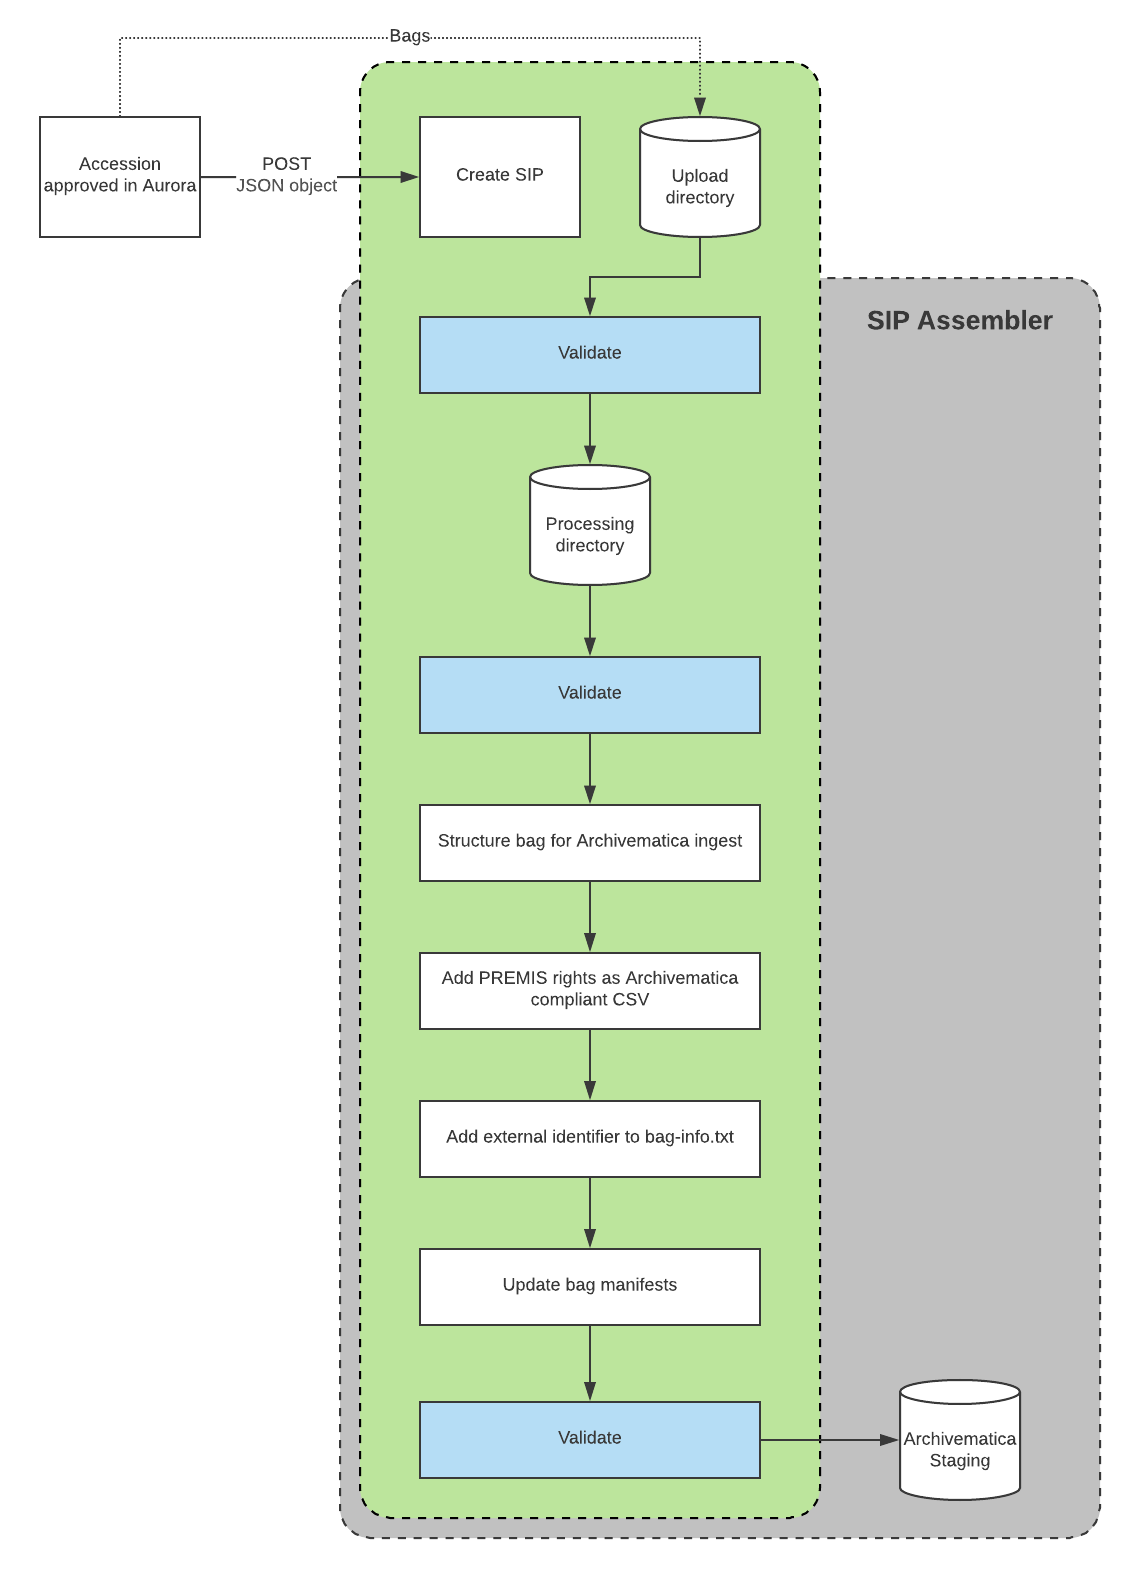
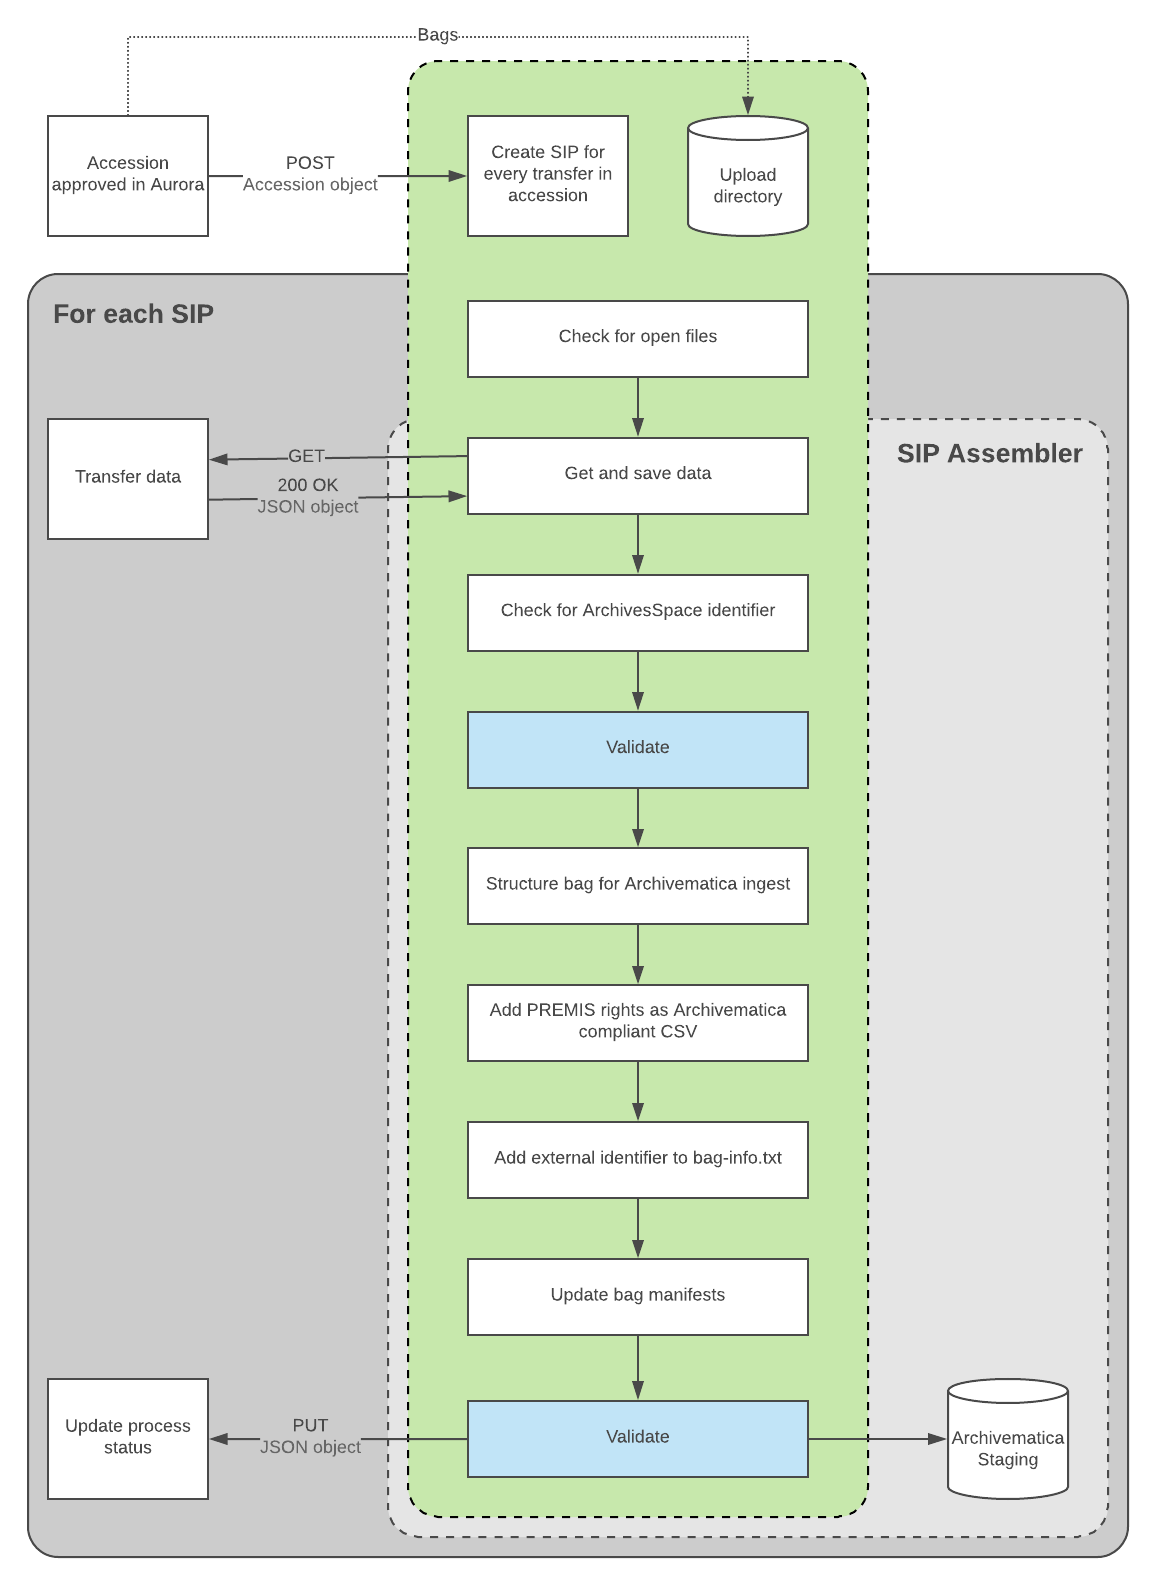
update readme and diagram

diff --git a/README.md b/README.md
@@ -41,6 +41,7 @@ SIPs will be created when a POST request is sent to the `sips` endpoint.
 SIPs are assembled on a regular basis when the `AssembleSIPs` cron job is run. If the files for a SIP do not exist (or are in the process of being transferred) assembly is skipped for that SIP until the next time the routine is run.
 
 SIP Assembly consists of the following steps (the `SIPAssembler` class):
+- Getting data from Aurora and checking to see if that data contains an ArchivesSpace identifier. If it does, that means that metadata about that transfer has been stored in ArchivesSpace.
 - Moving the SIP to the processing directory (SIPS are validated before and after moving)
 - Restructuring the SIP for Archivematica compliance by:
   - Moving objects in the `data` directory to `data/objects`
@@ -62,6 +63,7 @@ Fornax currently makes the following assumptions:
   - be virus-free
   - contain at least the minimum metadata elements in `bag-info.txt` as defined in the source organization's BagIt Profile
 - All bags will have a unique name, and that name will be reflected in the `machine_file_name` field of JSON responses available from Aurora's `transfers` endpoint.
+- SIPs will be created from a POST request to the `sips` endpoint.
 - All bags will be moved to the `UPLOAD_DIR` defined in `fornax/settings.py` by some means (FTP, rsync, HTTP). Fornax doesn't care how or when they get there, it will just handle them when they arrive.
 - For an example of the data Fornax expects from Aurora (both bags and JSON), see the `fixtures/` directory.
 
@@ -72,8 +74,8 @@ Fornax currently makes the following assumptions:
 |--------|-----|---|---|---|
 |GET|/sips| |200|Returns a list of SIPs|
 |GET|/sips/{id}| |200|Returns data about an individual SIP|
-|POST|/sips||200|Creates a SIP object from an transfer in Aurora. |
-|GET|/status||200|Return the status of the microservice
+|POST|/sips||200|Creates a SIP object from an transfer in Aurora.|
+|GET|/status||200|Return the status of the microservice|
 
 
 ### Authentication
